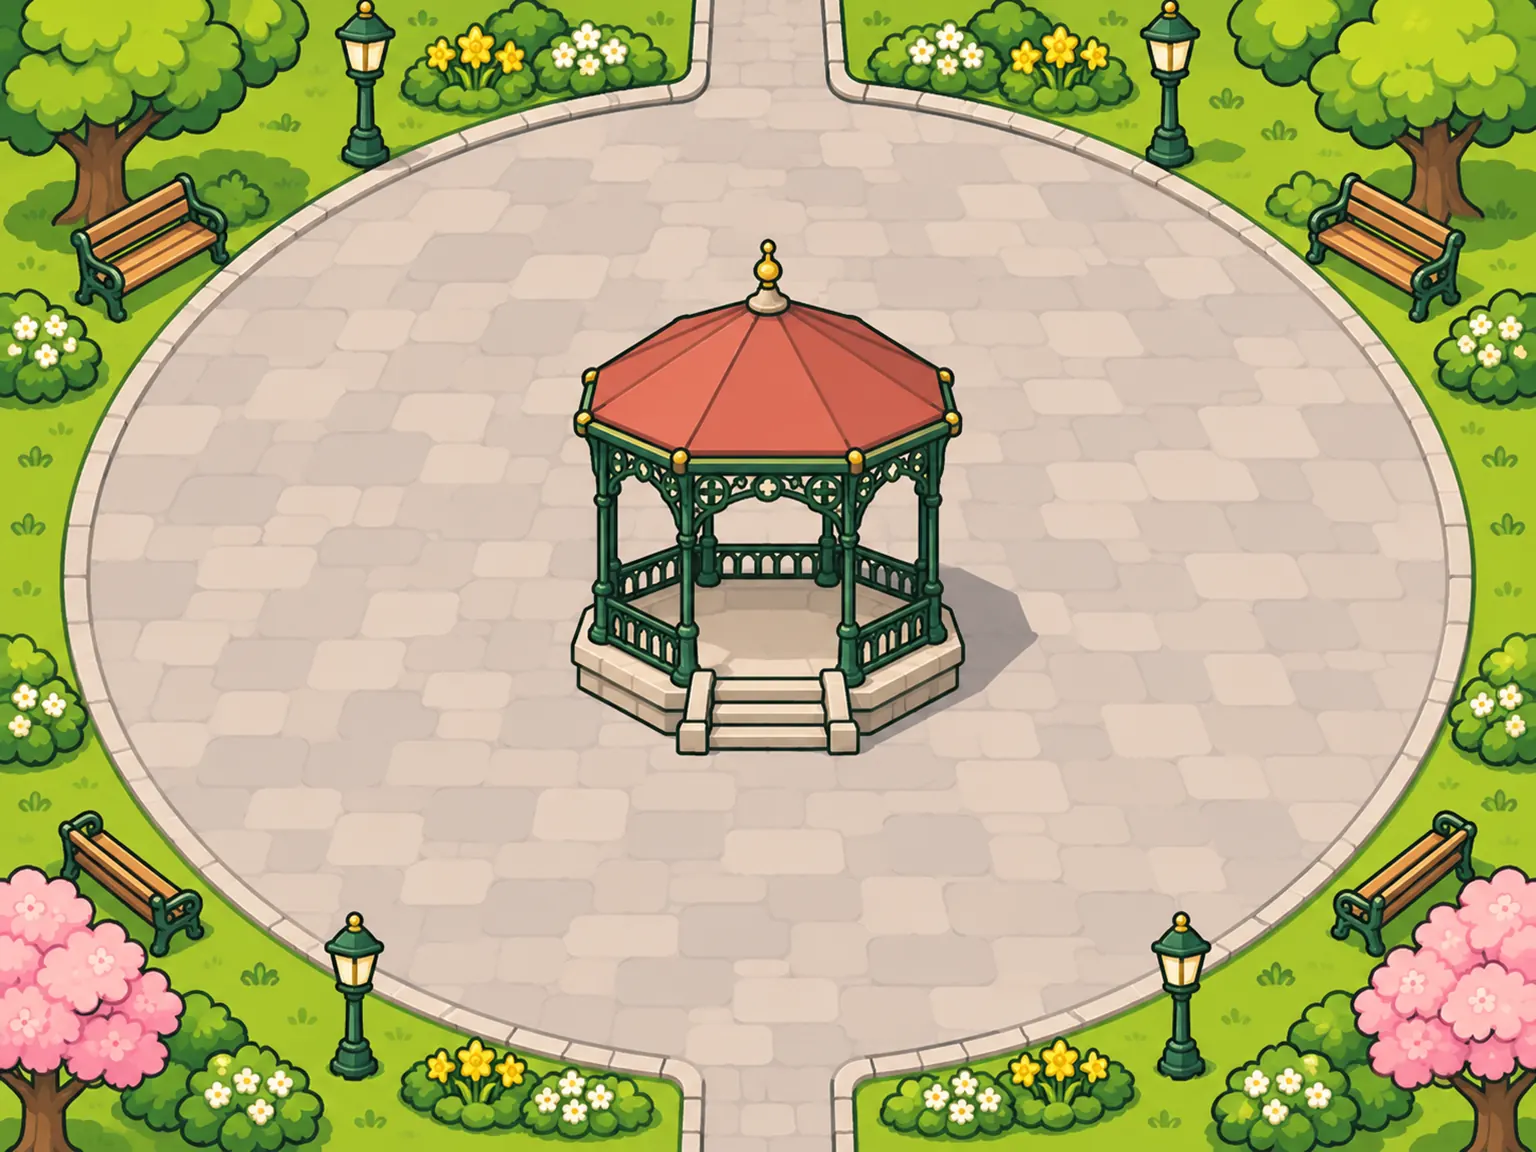
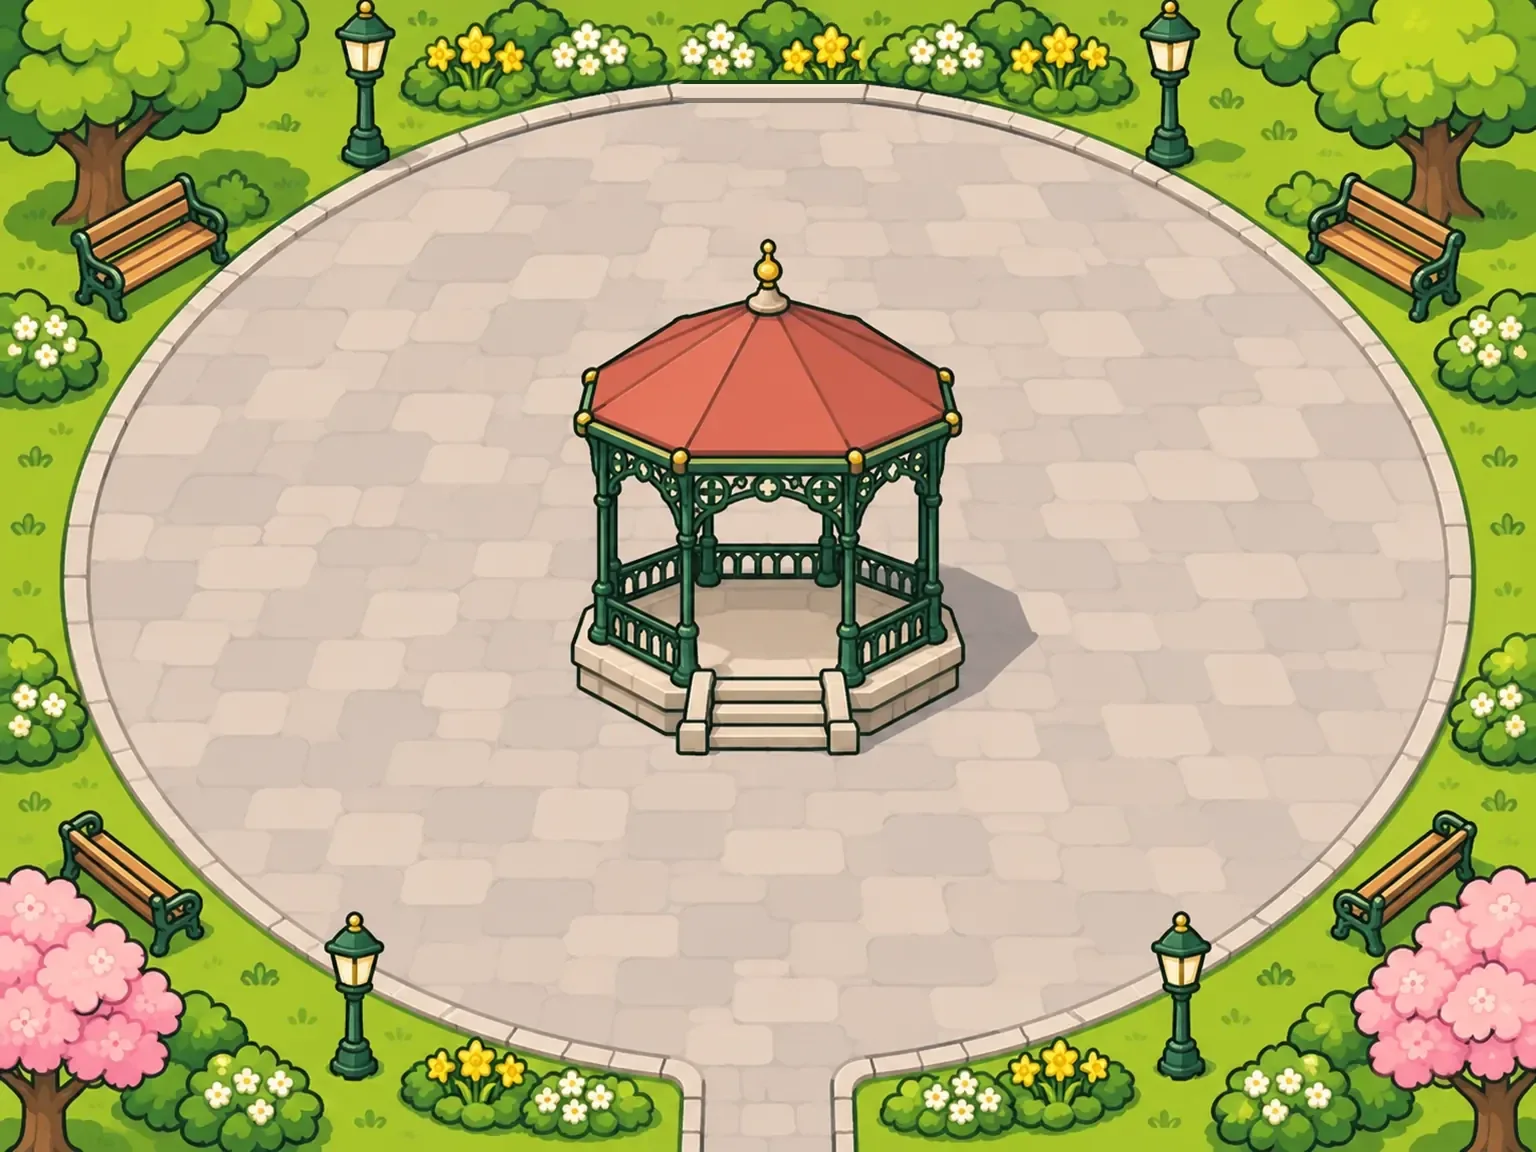
Plaza: smoother wall sliding (no more getting stuck), close the path north of the bandstand
Walls for moving use the soft mask cut at half, so stair-stepped edges become smooth slopes; when blocked,
the step turns toward the side away from the wall, keeps turning the same way while sliding, and steps back
off the wall when wedged. In a 3000-walk test, stuck walks went from 306 to 15.
Bandstand: the top path now ends in a flower bed and curb (art + walk mask).

Claude-Session: https://claude.ai/code/session_01K3hDsG36BWexZV9a92wcK1

Changed region(s): [[0.4375, 0.0, 0.5625, 0.0938]]

diff --git a/index.html b/index.html
@@ -8328,19 +8328,30 @@ function plzNorm(x,y){ const M=PLZ_MASK[ROOM?ROOM.zone:"fountain"]; let gx=0,gy=
     gx=F(x+6,y)-F(x-6,y); gy=F(x,y+6)-F(x,y-6); }
   if(Math.abs(gx)+Math.abs(gy)<1e-4){ gx=gy=0; for(let a=0;a<6.28;a+=.785){ const c=Math.cos(a), s=Math.sin(a); if(plzBlocked(x+c*10,y+s*10)){ gx-=c; gy-=s; } } }
   const l=Math.hypot(gx,gy); return l>1e-6?[gx/l,gy/l]:null; }
-// move in small steps; on hitting a wall keep the part of the motion along the wall (a glancing hit keeps nearly full
-// speed, a head-on one stops), then fall back to x-only / y-only
-function plzMove(o,vx,vy,dt){ const sp=Math.hypot(vx,vy); if(sp<1) return false; const st=sp*dt, n=Math.max(1,Math.ceil(st/3)), dx=vx*dt/n, dy=vy*dt/n, L=st/n; let moved=0;
-  const go=(ax,ay)=>{ if(plzBlocked(o.x+ax,o.y+ay)) return false; o.x+=ax; o.y+=ay; moved+=Math.hypot(ax,ay); return true; };
-  for(let k=0;k<n;k++){ const ax=o.x+dx/L*9, ay=o.y+dy/L*9;   // look 9px ahead so the turn starts before the wall, not after
-    if(!plzBlocked(ax,ay)&&go(dx,dy)) continue;
-    const N=plzNorm(ax,ay)||plzNorm(o.x,o.y);
-    if(N){ const d=dx*N[0]+dy*N[1], tx=dx-d*N[0], ty=dy-d*N[1], tl=Math.hypot(tx,ty);
-      if(d>=0&&go(dx,dy)) continue;
-      if(tl>1e-3){ const m=L*Math.min(1,tl/L*1.6)/tl, ux=tx*m, uy=ty*m;
-        if(go(ux,uy)||go(ux+N[0]*.6,uy+N[1]*.6)) continue; } }
-    if(go(dx,dy)) continue;
-    if(Math.abs(dx)>Math.abs(dy)){ if(go(dx,0)||go(0,dy)) continue; } else if(go(0,dy)||go(dx,0)) continue;
+// move in small steps. Straight on while the way 9px ahead is clear; otherwise turn the step a little at a time, toward the side
+// that leads away from the wall (from the soft mask's slope), until it fits, and keep only the part that still points where you aim
+// (a glancing hit keeps nearly full speed, a near head-on one slides slowly). A second pass without the look-ahead gets you out of
+// notches and tight corners, so you never stick while some way forward is open.
+const PLZ_TURN=[.26,.52,.79,1.05,1.31,1.57,1.83];
+// walls for moving: the soft mask cut at half, so the 4px stair-steps of a slanted edge become one smooth slope you glide along
+function plzOpenAt(x,y){ const M=PLZ_MASK[ROOM?ROOM.zone:"fountain"]; if(!M||!M.f) return !plzBlocked(x,y);
+  const u=x/PLZ_MC-.5, v=y/PLZ_MC-.5, i=Math.floor(u), j=Math.floor(v), fu=u-i, fv=v-j, g=(p,q)=>p<0||q<0||p>=M.w||q>=M.h?0:M.f[q*M.w+p];
+  return (g(i,j)*(1-fu)+g(i+1,j)*fu)*(1-fv)+(g(i,j+1)*(1-fu)+g(i+1,j+1)*fu)*fv>=.5; }
+function plzMove(o,vx,vy,dt){ const sp=Math.hypot(vx,vy); if(sp<1) return false; const st=sp*dt, n=Math.max(1,Math.ceil(st/3)), dx=vx*dt/n, dy=vy*dt/n, L=st/n, ux=dx/L, uy=dy/L; let moved=0;
+  const free=(x,y)=>plzOpenAt(x,y)||(plzBlocked(o.x,o.y)?false:!plzOpenAt(o.x,o.y)&&!plzBlocked(x,y));   // already in a thin spot the soft walls shut? walk out on the plain mask
+  for(let k=0;k<n;k++){ const sx=o.x+dx, sy=o.y+dy, okStep=free(sx,sy);
+    if(okStep&&free(o.x+ux*9,o.y+uy*9)){ o.x=sx; o.y=sy; moved+=L; if(o.slideK>0) o.slideK--; continue; }
+    const N=plzNorm(o.x+ux*9,o.y+uy*9)||plzNorm(o.x,o.y), cr=N?ux*N[1]-uy*N[0]:0, sg=o.slideK>0||Math.abs(cr)<=.05?(o.slideSg||1):cr>0?1:-1;   // while sliding, keep turning the same way (no jitter in corners)
+    let hit=null;
+    for(let pass=0;pass<2&&!hit;pass++) for(const t of PLZ_TURN){ if(pass===0&&t>1.35) break;
+      for(const s2 of [sg,-sg]){ const a=t*s2, c=Math.cos(a), sn=Math.sin(a), rx=ux*c-uy*sn, ry=ux*sn+uy*c, m=L*Math.max(.3,c), tx=o.x+rx*m, ty=o.y+ry*m; if(t>1.2&&N&&rx*N[0]+ry*N[1]<0) continue;   // a wide turn must lead away from the wall, or you wobble in a corner
+        if(free(tx,ty)&&(pass||free(o.x+rx*9,o.y+ry*9))){ hit=[tx,ty,m,s2]; break; } }
+      if(hit) break; }
+    if(hit&&!(okStep&&hit[2]<L*.5)){ o.x=hit[0]; o.y=hit[1]; moved+=hit[2]; o.slideSg=hit[3]; o.slideK=12; continue; }
+    if(okStep){ o.x=sx; o.y=sy; moved+=L; continue; }
+    if(hit){ o.x=hit[0]; o.y=hit[1]; moved+=hit[2]; o.slideSg=hit[3]; o.slideK=12; continue; }
+    // wedged into a jagged corner of the mask: step back off the wall a little, so the next step has room to turn
+    const B=plzNorm(o.x,o.y)||N; if(B&&free(o.x+B[0]*1.5,o.y+B[1]*1.5)){ o.x+=B[0]*1.5; o.y+=B[1]*1.5; }
     break; }
   return moved>st*.25; }
 // nearest walkable spot (after a mask loads, or if someone stands somewhere odd)
